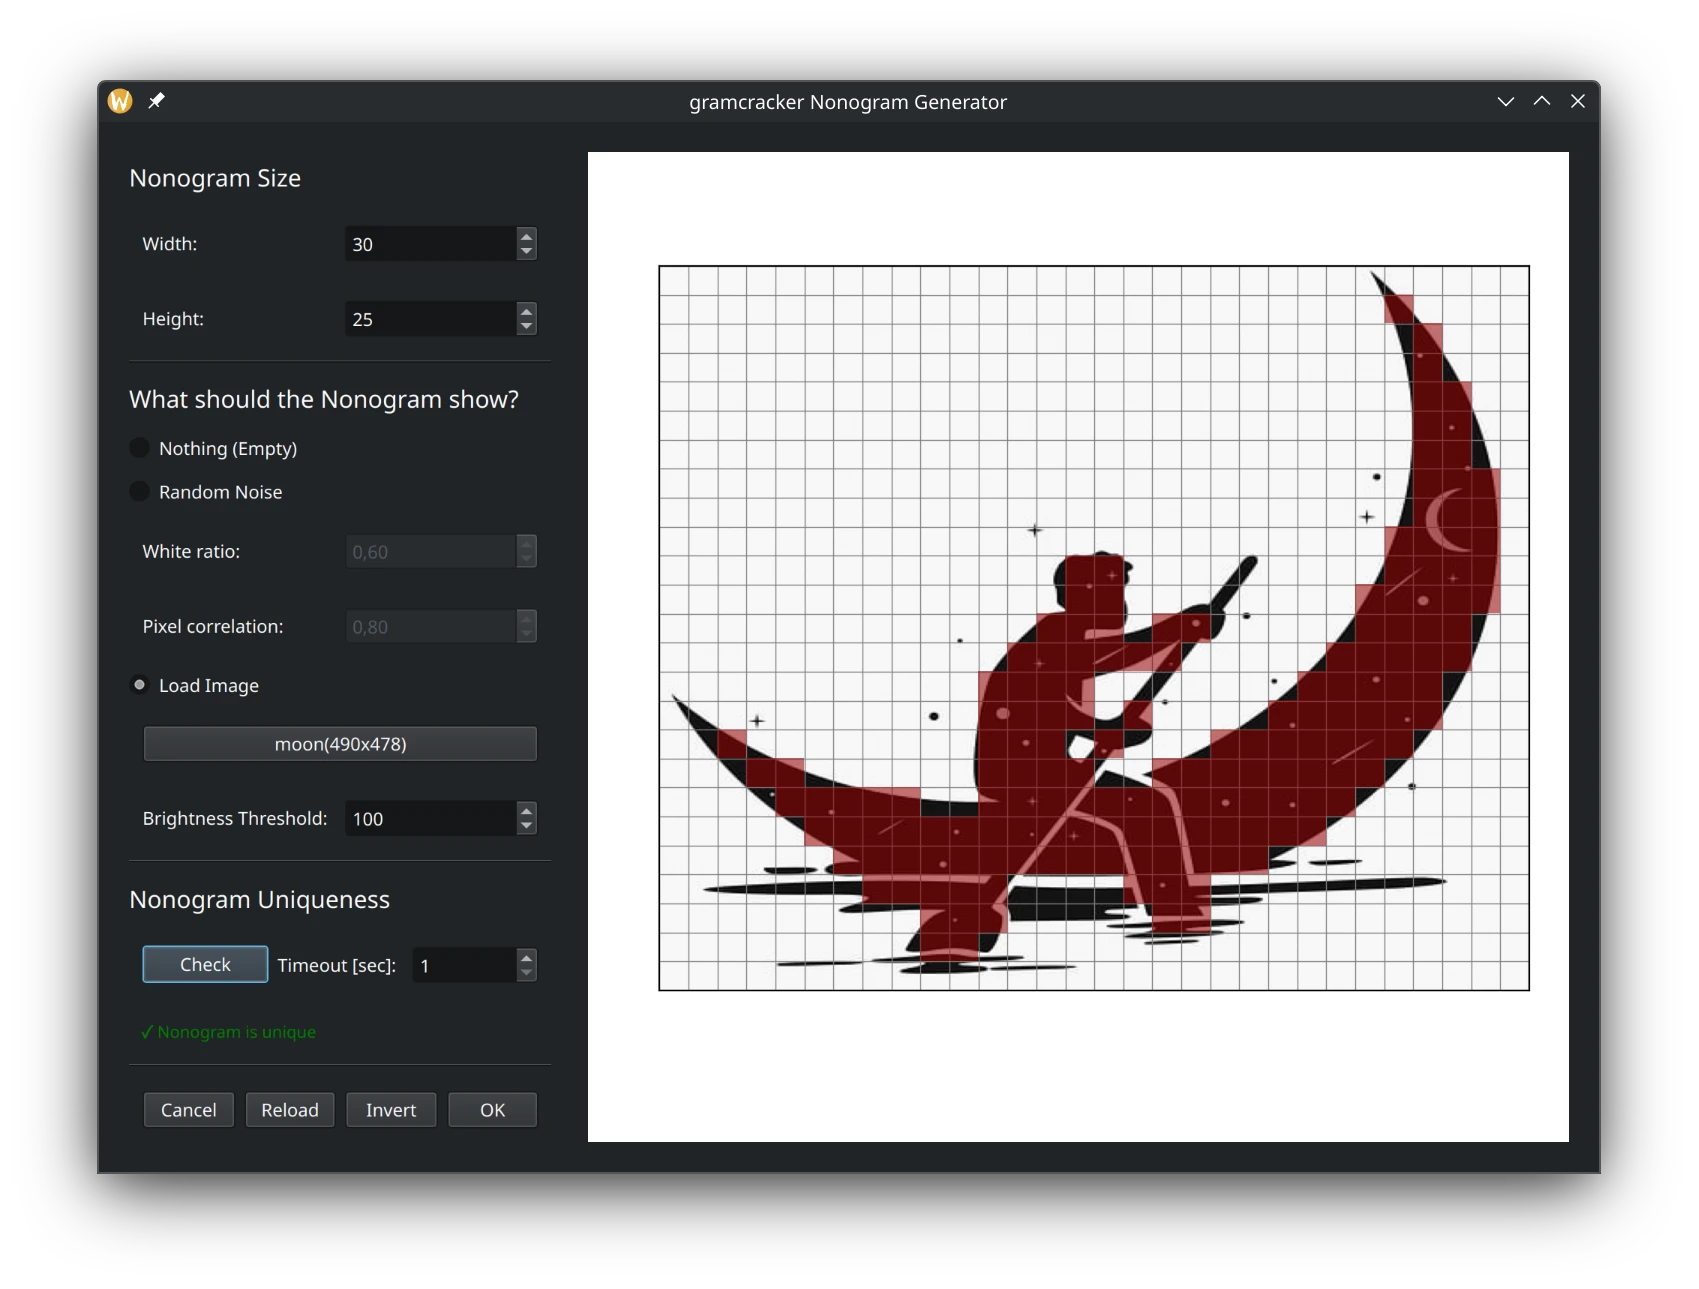
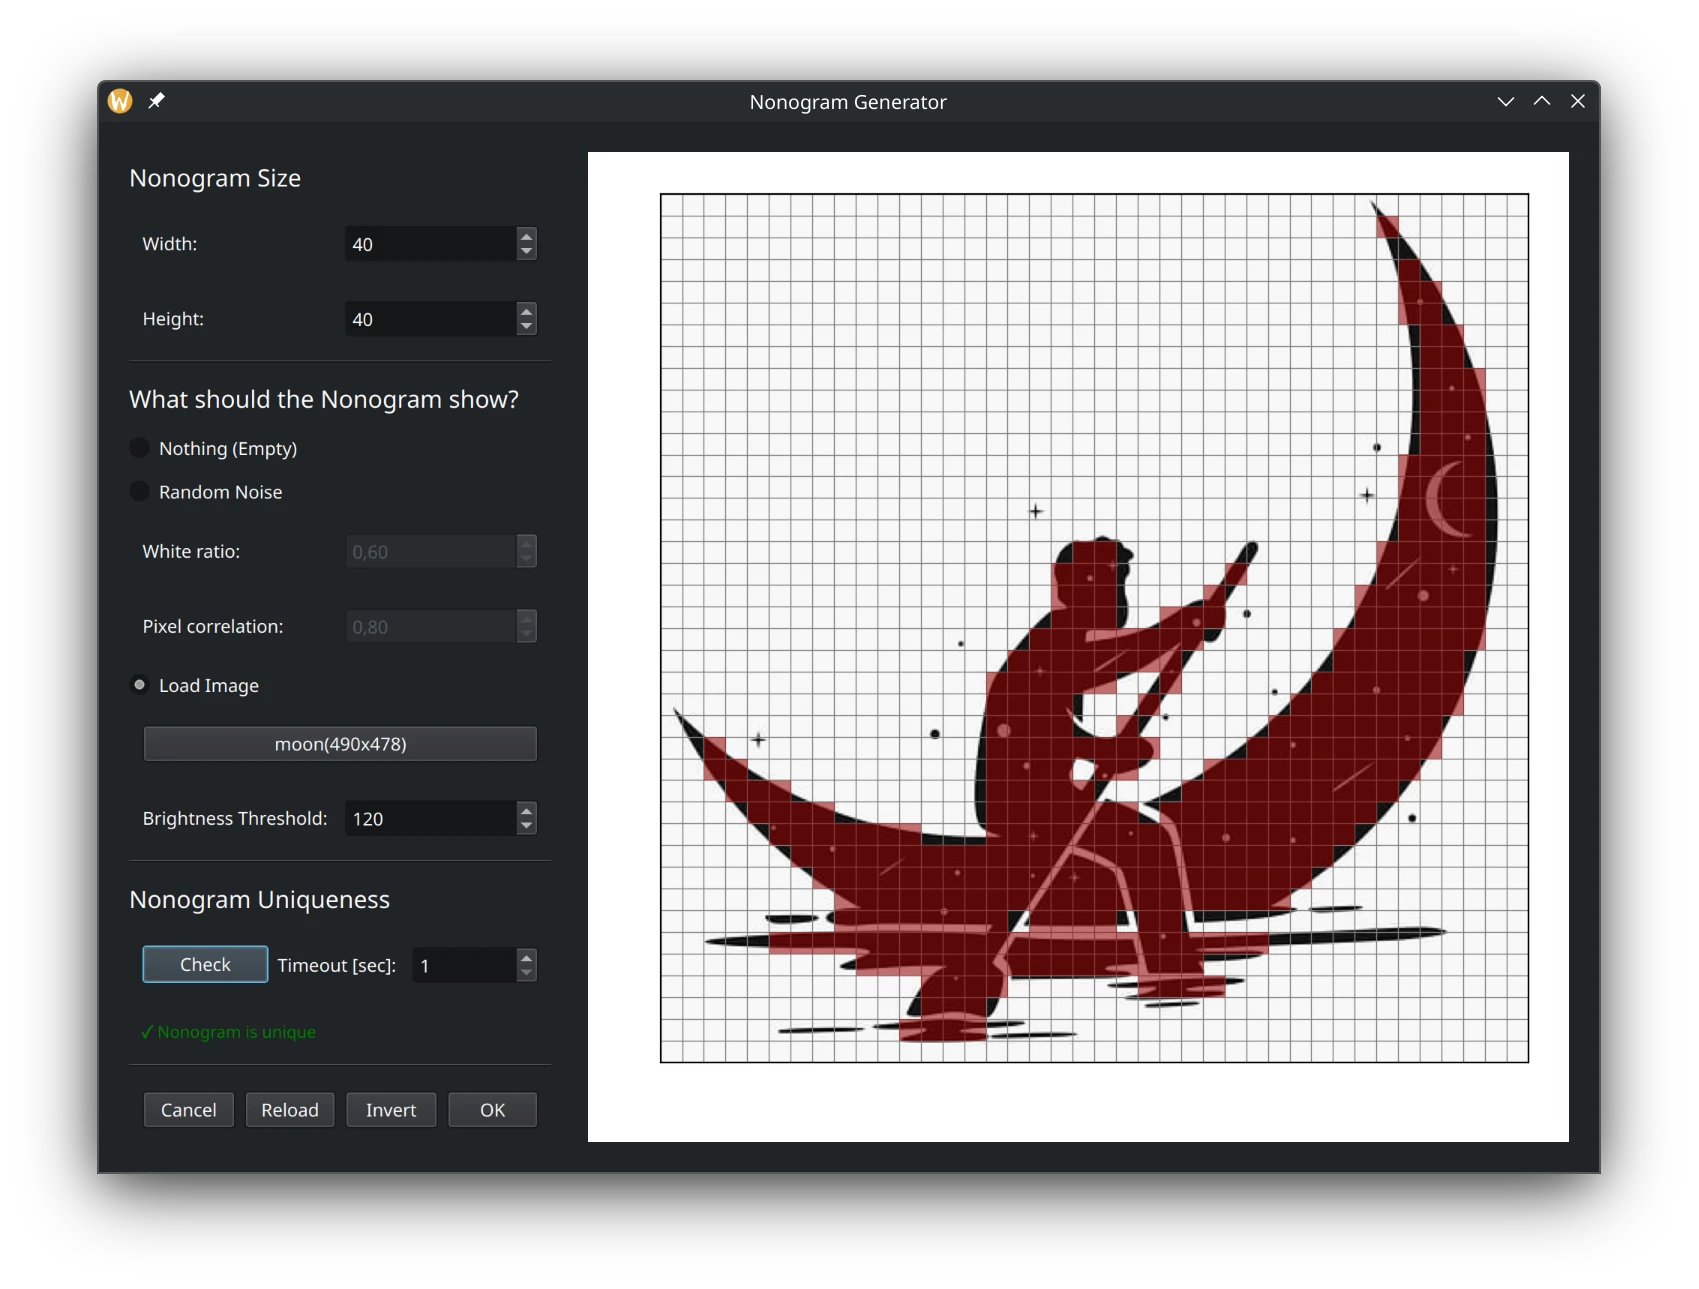
add preview images to readme

Changed region(s): [[0.3743, 0.1552, 0.9046, 0.8379], [0.4055, 0.0621, 0.5927, 0.0931]]

diff --git a/gui/nonogram_creator.py b/gui/nonogram_creator.py
@@ -41,7 +41,7 @@ class NonogramCreator(QDialog):
         self.timeout: float = 1.0
 
         # Setup the window and layout
-        self.setWindowTitle("gramcracker Nonogram Generator")
+        self.setWindowTitle("Nonogram Generator")
         self.setMinimumSize(WINDOW_WIDTH, WINDOW_HEIGHT)
 
         main_layout = QHBoxLayout(self)

diff --git a/README.md b/README.md
@@ -2,6 +2,8 @@ An ASP-based Nonogram Solver with uniqueness checking, as well as a GUI for crea
 
 ![image](generator_preview.webp)
 
+![image](ui_preview.webp)
+
 # Setup
 We recommend running this python application in a virtual environment.
 For example, you can do the following to set this up:
